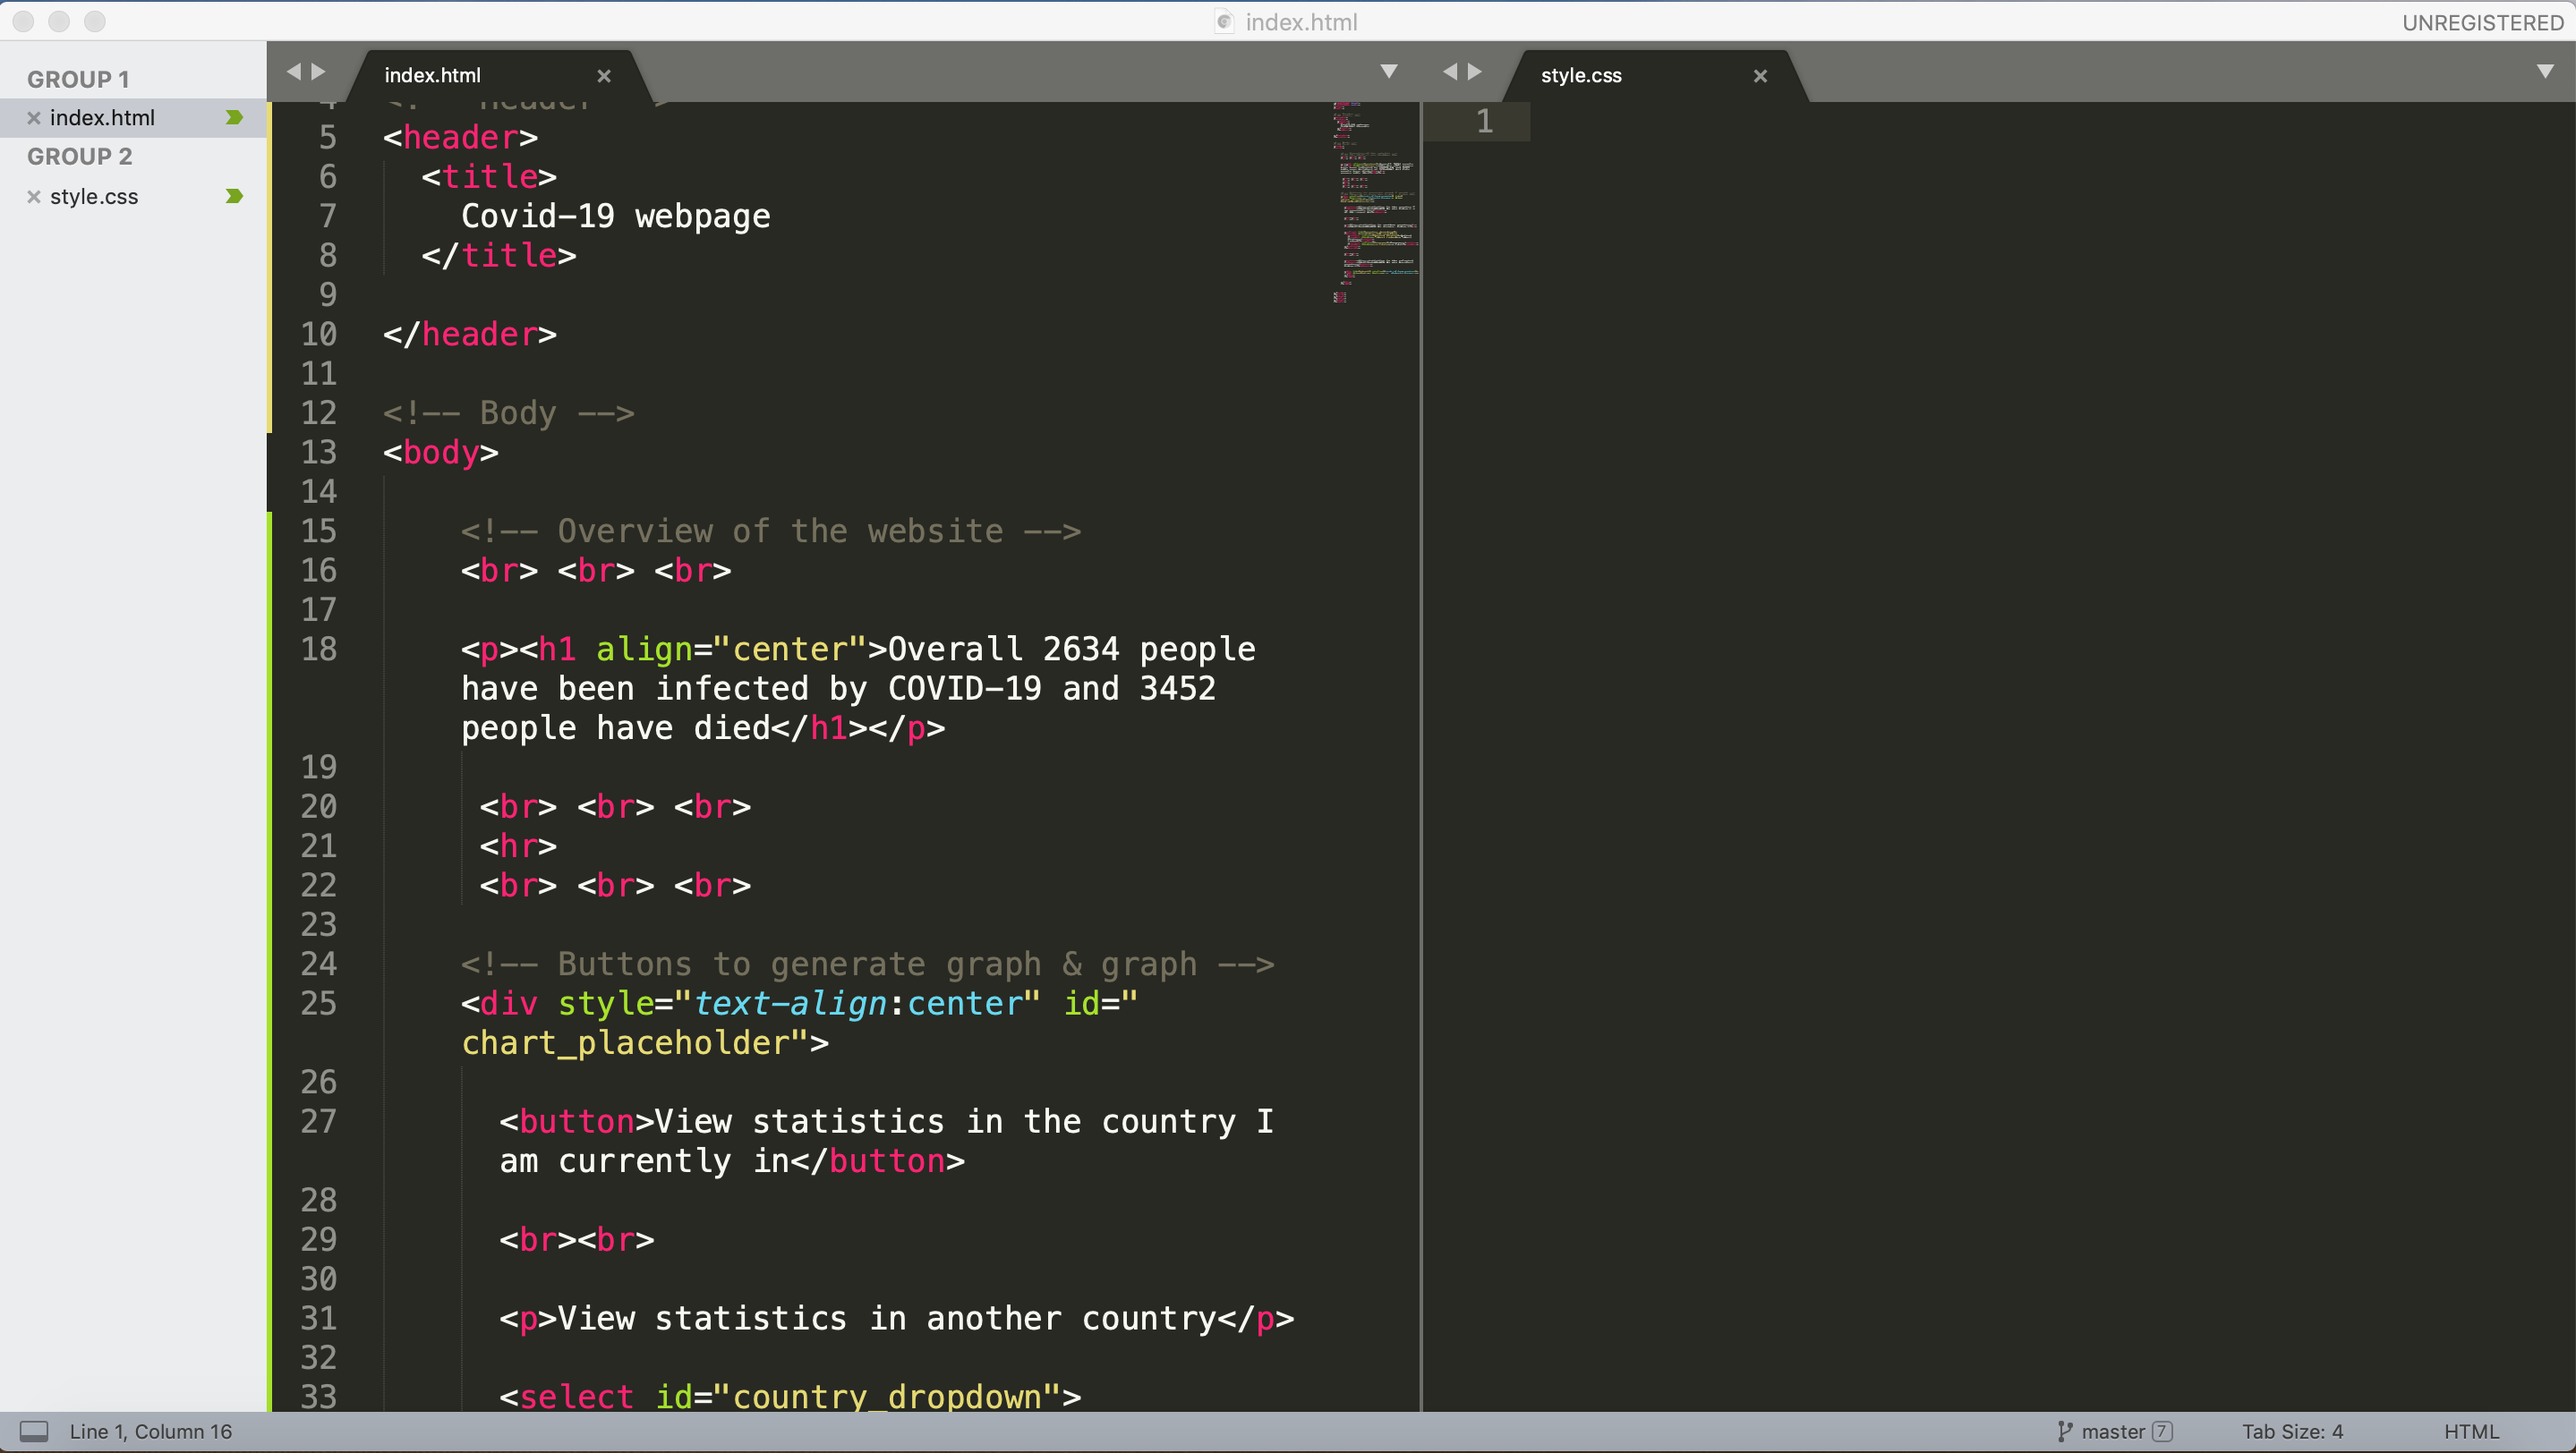
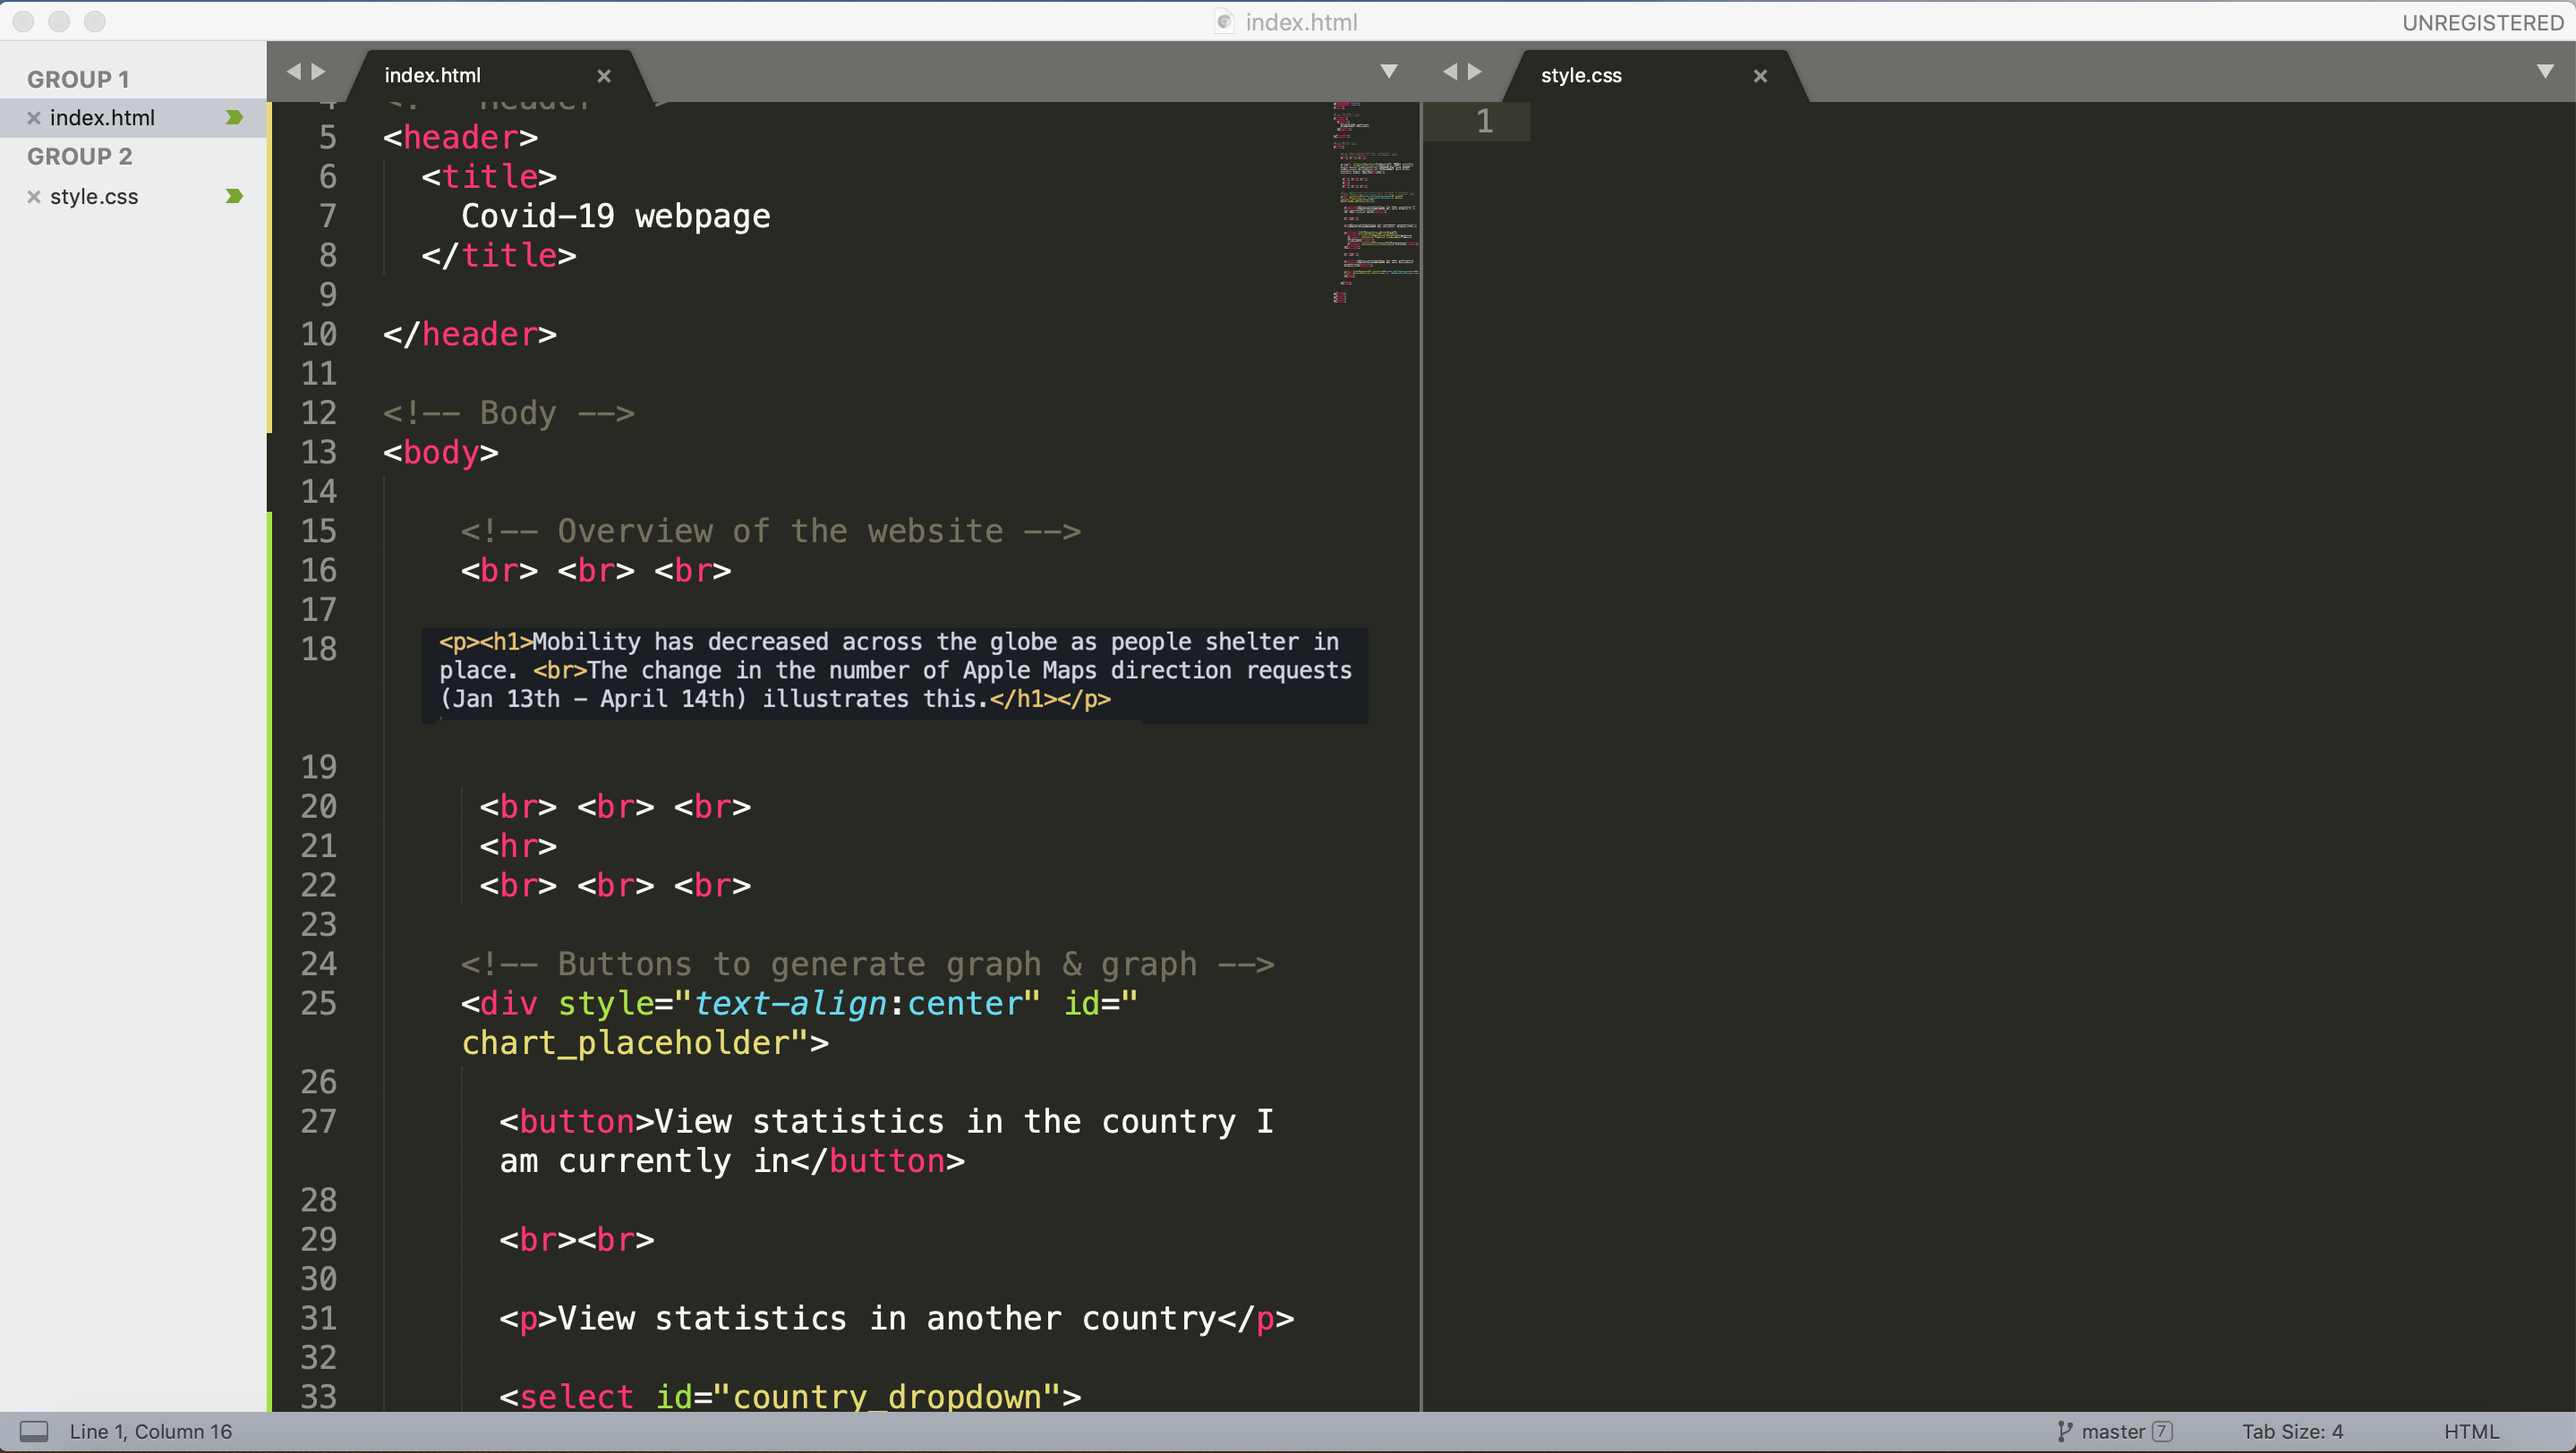
Week 2 Updates

Changed region(s): [[0.1546, 0.431, 0.5257, 0.5234], [0.2165, 0.6773, 0.2474, 0.7081]]

diff --git a/session2/tutorial_js_webdeveloper.md b/session2/tutorial_js_webdeveloper.md
@@ -65,18 +65,18 @@ function InitializeGraph() {
 
 **Step 3: Link your html button to the ```InitializeGraph``` function**
 
-Ensure that your ```InitializeGraph``` function is triggered when the button is pressed by inserting the an ```onclick``` property into your ```button``` tag. Your ```button``` tag should now look something like this : ```<button onclick="InitializeGraph()">See the number of infections and deaths in my area</button>```.
+Ensure that your ```InitializeGraph``` function is triggered when the button is pressed by inserting the an ```onclick``` property into your ```button``` tag. Your ```button``` tag should now look something like this : ```<button onclick="InitializeGraph()">See the % decrease in the number of driving and walking direction requests in my current region</button>```.
 
 **Step 4: Create an ```DrawGraph``` function that visualizes a given set of location-specific data**
 
 ```
 // DrawGraph
-function DrawGraph(country, infection, death) {
+function DrawGraph(country, walkingdecrease, drivingdecrease) {
 
   // Generate and format the data
   var data = google.visualization.arrayToDataTable([
-    ['Country', 'Infections', 'Deaths'],
-    [country, infection, death]
+    ['Country', 'WalkingDecrease', 'DrivingDecrease'],
+    [country, walkingdecrease, drivingdecrease]
   ]);
 
   // Customize the graph
@@ -84,7 +84,7 @@ function DrawGraph(country, infection, death) {
     colors: ['#b0120a', '#ffab91'],
     chartArea: {width: '50%'},
     hAxis: {
-      title: 'Number of infections and deaths'
+      title: '% decrease in the number of walking and driving direction requests'
     }
   };
 
@@ -95,17 +95,19 @@ function DrawGraph(country, infection, death) {
   chart.draw(data, options);
 
 }
+
+
 ```
 
 **Step 5: Link your two functions, substituting hard-coded data for an API call to the backend**
 
-Add in a call to your ```DrawGraph``` function at the end of your ```InitializeGraph``` function passing to the ```DrawGraph``` function a hard-coded set of values for the ```country```, ```infection```, and ```death``` parameters. We will build the backend that can generate these values based on the users' longitude and latitude in session #3. 
+Add in a call to your ```DrawGraph``` function at the end of your ```InitializeGraph``` function passing to the ```DrawGraph``` function a hard-coded set of values for the ```country```, ```walkingdecrease```, and ```drivingdecrease``` parameters. We will build the backend that can generate these values based on the users' longitude and latitude in session #3. 
 
 ```
 // Draw the graph
 // ** Note: Data is hard-coded > next step: Replace hard-coded data with an API call to the server, i.e., backend 
-// ** API call specification: Send to server: Longitude, latitude / Receive from server: Corresponding country, # of infections/deaths in that country
-DrawGraph("United States",852000, 43000);
+// ** API call specification: Send to server: Longitude, latitude / Receive from server: Corresponding country, decrease in walking direction requests, decrease in driving direction requests
+DrawGraph("United States",20,30);
 ```
 
 **Step 6: Save and exit the file and launch index.html again**

diff --git a/session2/tutorial_html_webserver.md b/session2/tutorial_html_webserver.md
@@ -46,7 +46,7 @@ The following snippet of code can help you get started with your webpage. Read t
     <!-- Provide an overview of the website -->
     <br> <br> <br>
 
-    <p><h1>As of April 23rd, more than 2,616,000 people have been sickened by COVID-19 <br>and at least 181,000 people have died</h1></p>
+    <p><h1>Mobility has decreased across the globe as people shelter in place. <br>The change in the number of Apple Maps direction requests (Jan 13th - April 14th) illustrates this.</h1></p>
 
     <br> <br> <br>
     <hr>
@@ -55,7 +55,7 @@ The following snippet of code can help you get started with your webpage. Read t
     <!-- Let's insert a button to generate graph & placeholder for location & placeholder for graph -->
     <div>
       
-      <button>See the number of infections and deaths in my area</button>
+      <button>See the % decrease in the number of driving and walking direction requests in my current region</button>
 
     </div>
  

diff --git a/session2/tutorial_css.md b/session2/tutorial_css.md
@@ -57,7 +57,7 @@ Create a class around the button named "graph-button". This will allow us to cre
 
 ````
     <div> 
-   		<button> <div class = "graph-button"> <a href="#" class="button">See the number of infections and deaths in my area</a> 
+   		<button> <div class = "graph-button"> <a href="#" class="button">See the % decrease in the number of driving and walking direction requests in my current region</a> 
    		</button>
     </div>
 

diff --git a/dpproject/resources_datasets.md b/dpproject/resources_datasets.md
@@ -1,6 +1,9 @@
 # DP Project Resources
 
+## *Dataset used in class demos & tutorials*
+
 ## Database and API Search Providers
+https://data.world/kgarrett/covid-19-mobility-trends
 
 #### DataHub: 
 https://datahub.io/
